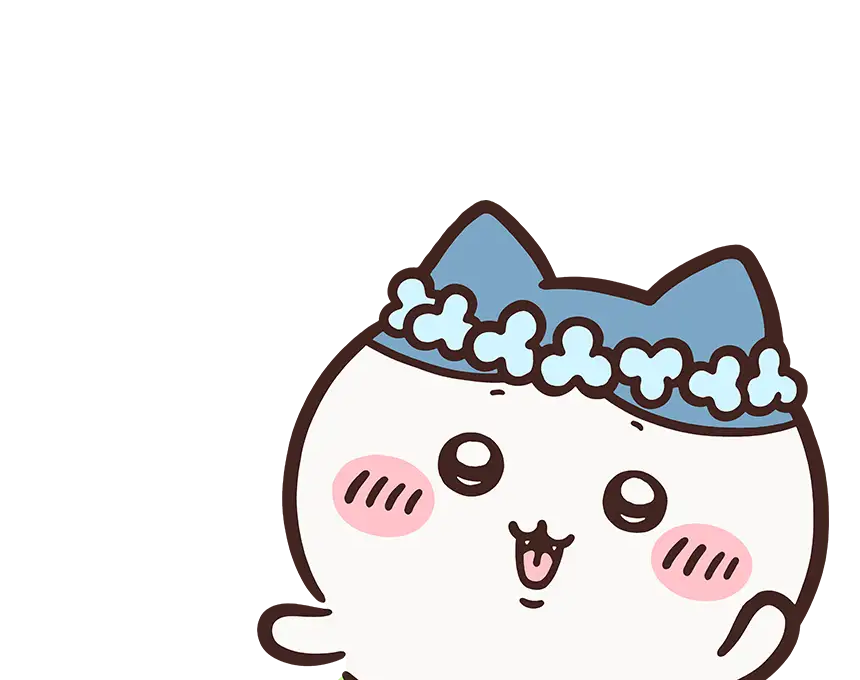
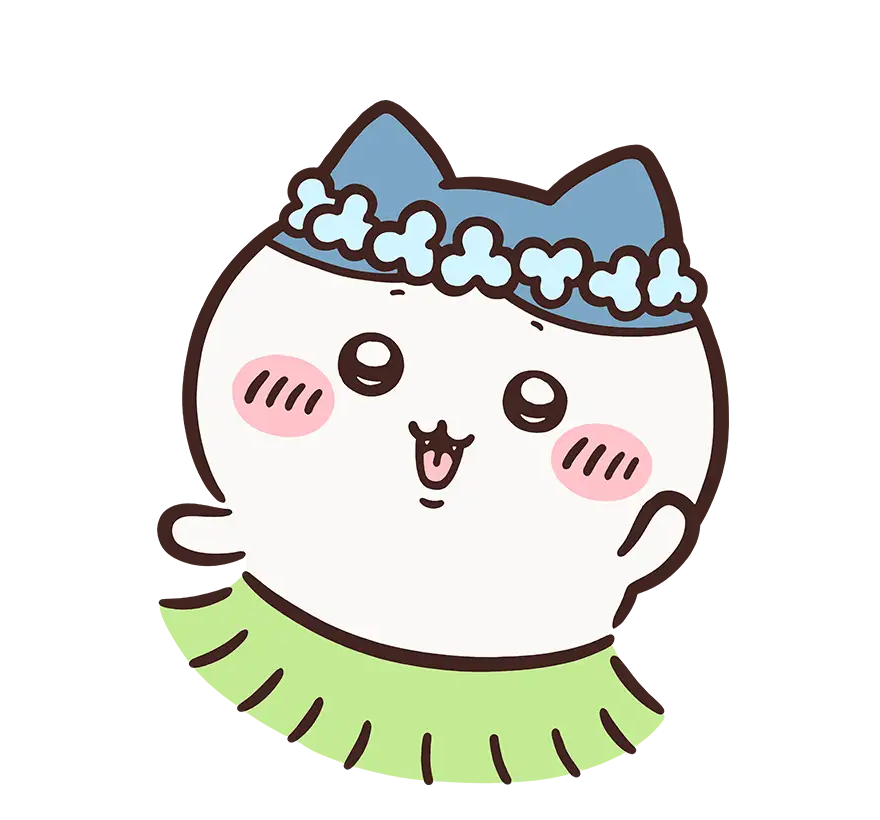
fix : 캐릭터 일러스트 잘림 수정, 캐릭터 커서 적용
- sips 의 cropOffset 이 넣은 값대로 동작하지 않아 일러스트가 잘리던 문제 해결
- 좌표를 직접 지정하는 방식으로 바꿔 11명 모두 온전히 담기도록 수정
- 캐릭터 얼굴로 만든 커서를 적용 (기본 치이카와, 링크 우사기, 지도 하치와레)
- 터치 화면에서는 커서 그림을 끔

diff --git a/src/app/globals.css b/src/app/globals.css
@@ -330,3 +330,47 @@ li { margin-bottom: 0.3em; }
 @media (prefers-reduced-motion: reduce) {
   .hero-bubble { animation: none; }
 }
+
+/* ── 커서 ─────────────────────────────────── */
+/*
+ * 캐릭터 얼굴을 커서로 쓴다. 브라우저가 커서 이미지를 못 읽는 경우가 있어
+ * 뒤에 기본값을 반드시 남긴다. 좌표는 그림 왼쪽 위 근처를 가리키게 잡는다.
+ */
+body {
+  cursor: url('/cursor/chiikawa.png') 6 4, auto;
+}
+a,
+button,
+label,
+summary,
+[role='button'],
+.chip,
+.card,
+.tile,
+.row {
+  cursor: url('/cursor/usagi.png') 6 4, pointer;
+}
+input,
+select,
+textarea {
+  cursor: auto;
+}
+.leaflet-container {
+  cursor: url('/cursor/hachiware.png') 6 4, grab;
+}
+.leaflet-container:active {
+  cursor: url('/cursor/hachiware.png') 6 4, grabbing;
+}
+/* 손가락으로 쓰는 화면에서는 커서 그림이 의미가 없다. */
+@media (hover: none) {
+  body,
+  a,
+  button,
+  .chip,
+  .card,
+  .tile,
+  .row,
+  .leaflet-container {
+    cursor: auto;
+  }
+}

diff --git a/scripts/cursor.py b/scripts/cursor.py
@@ -1,0 +1,50 @@
+#!/usr/bin/env python3
+"""
+캐릭터 얼굴로 마우스 커서 이미지를 만든다.
+
+원본은 배경이 단색이라 그 색을 투명으로 바꾸고, 캐릭터가 꽉 차도록 여백을 잘라 낸다.
+브라우저 커서는 32px 안팎이 가장 또렷해 두 배 크기까지만 만든다.
+"""
+
+from pathlib import Path
+
+from PIL import Image
+
+SOURCE = Path("public/images/characters")
+OUT = Path("public/cursor")
+SIZE = 40
+# 배경색과 이 정도까지 차이나면 배경으로 본다. 그림의 흰색은 테두리가 있어 살아남는다.
+BACKGROUND_TOLERANCE = 18
+
+
+def to_cursor(slug: str) -> None:
+    image = Image.open(SOURCE / f"movie-{slug}.png").convert("RGBA")
+    pixels = image.load()
+    background = pixels[2, 2][:3]
+
+    for y in range(image.height):
+        for x in range(image.width):
+            r, g, b, a = pixels[x, y]
+            near = abs(r - background[0]) + abs(g - background[1]) + abs(b - background[2])
+            if near <= BACKGROUND_TOLERANCE:
+                pixels[x, y] = (r, g, b, 0)
+
+    trimmed = image.crop(image.getbbox())
+    # 정사각형 안에 넣어야 커서 좌표가 어긋나지 않는다.
+    side = max(trimmed.width, trimmed.height)
+    square = Image.new("RGBA", (side, side), (0, 0, 0, 0))
+    square.paste(trimmed, ((side - trimmed.width) // 2, (side - trimmed.height) // 2))
+
+    for scale, suffix in ((1, ""), (2, "@2x")):
+        square.resize((SIZE * scale, SIZE * scale), Image.LANCZOS).save(OUT / f"{slug}{suffix}.png")
+    print(f"{slug} {trimmed.width}x{trimmed.height} → {SIZE}px, {SIZE * 2}px")
+
+
+def main() -> None:
+    OUT.mkdir(parents=True, exist_ok=True)
+    for slug in ("chiikawa", "hachiware", "usagi"):
+        to_cursor(slug)
+
+
+if __name__ == "__main__":
+    main()

diff --git a/scripts/movie-art.py b/scripts/movie-art.py
@@ -1,0 +1,54 @@
+#!/usr/bin/env python3
+"""
+극장판 공식 사이트의 캐릭터 일러스트를 받아 이름표와 소개 글을 잘라낸다.
+
+원본은 1080x1420 이고 위쪽에 그림, 아래쪽에 이름표와 설명이 있다.
+sips 의 cropOffset 은 값이 그대로 반영되지 않아 쓰지 않는다. 좌표를 직접 지정한다.
+"""
+
+import urllib.request
+from pathlib import Path
+
+from PIL import Image
+
+BASE = "https://chiikawa.toho-movie.jp/atm/img"
+OUT = Path("public/images/characters")
+UA = "Mozilla/5.0 (Macintosh; Intel Mac OS X 10_15_7) AppleWebKit/537.36 Chrome/124 Safari/537.36"
+
+# slug: 원본 파일명
+CHARACTERS = {
+    "chiikawa": "chii",
+    "hachiware": "hachi",
+    "usagi": "usagi",
+    "momonga": "momo",
+    "kurimanju": "kuri",
+    "rakko": "rakko",
+    "shisa": "shisa",
+    "furuhonya": "furuhon",
+    "seiren": "siren",
+    "ningyo": "mermaid",
+    "shimajiro": "shima",
+}
+
+# 눈금을 올려 재 보니 그림은 y 0~820 안에 들어간다. 이름표는 850 부터 시작한다.
+CROP = (100, 0, 980, 820)
+
+
+def fetch(name: str) -> Image.Image:
+    request = urllib.request.Request(f"{BASE}/ch_{name}.webp", headers={"User-Agent": UA})
+    with urllib.request.urlopen(request, timeout=30) as response:
+        return Image.open(response).convert("RGBA")
+
+
+def main() -> None:
+    OUT.mkdir(parents=True, exist_ok=True)
+    for slug, name in CHARACTERS.items():
+        image = fetch(name)
+        cropped = image.crop(CROP)
+        target = OUT / f"movie-{slug}.png"
+        cropped.save(target)
+        print(f"{slug} {cropped.width}x{cropped.height} {target.stat().st_size // 1024}KB")
+
+
+if __name__ == "__main__":
+    main()

diff --git a/README.md b/README.md
@@ -29,15 +29,23 @@ pnpm scrape   # 치이카와 마켓 신상 굿즈 갱신
 | `scripts/fx.mjs` | 엔/원 환율 갱신 | |
 | `scripts/download-images.mjs` | 인물·장소 이미지를 `public/images` 로 내려받고 JSON을 로컬 경로로 교체 | |
 | `scripts/merge-characters.mjs` | 인물 데이터 두 갈래를 slug 기준으로 합침 | |
-| `scripts/movie-art.sh` | 극장판 공식 사이트의 고화질 캐릭터 일러스트를 받아 이름표를 잘라냄 | |
+| `scripts/movie-art.py` | 극장판 공식 사이트의 고화질 캐릭터 일러스트를 받아 이름표를 잘라냄 | 11명 |
+| `scripts/cursor.py` | 캐릭터 얼굴로 마우스 커서 이미지를 만듦 | 3종 |
 | `scripts/sources.md` | 확인된 기계 판독 엔드포인트 정리 | |
 
 ## 이미지
 
 애니 공식 사이트의 캐릭터 이미지는 90x145 썸네일뿐이라 확대하면 흐리다.
 극장판 공식 사이트(`chiikawa.toho-movie.jp`)에 1080x1420 일러스트가 있어 그쪽을 쓴다.
-아래쪽에 이름표와 소개 글이 붙어 있어 `scripts/movie-art.sh` 가 `sips` 로 그림 부분만 잘라낸다.
-`sips --cropOffset` 은 음수가 위쪽이고, 앞에 공백을 두지 않으면 옵션으로 잘못 읽힌다.
+아래쪽에 이름표와 소개 글이 붙어 있어 `scripts/movie-art.py` 가 그림 부분만 잘라낸다.
+`sips --cropOffset` 은 넣은 값이 그대로 반영되지 않아 쓰지 않는다. 좌표를 직접 지정한다.
+
+## 커서
+
+`scripts/cursor.py` 가 캐릭터 얼굴로 커서 이미지를 만든다. 원본 배경이 단색이라 그 색을 투명으로 바꾸고,
+여백을 잘라 정사각형에 담는다. 기본 커서는 치이카와, 누를 수 있는 곳은 우사기, 지도는 하치와레다.
+브라우저가 커서 이미지를 못 읽을 때를 대비해 CSS 에 기본값을 반드시 남긴다.
+손가락으로 쓰는 화면에서는 커서 그림이 의미가 없어 끈다.
 
 인물과 장소 이미지는 `pnpm images` 로 파일을 내려받아 `public/images` 에 두고 로컬 경로로 참조합니다.
 핫링크는 차단이나 CDN 만료로 조용히 깨지기 때문입니다. 굿즈는 2천 건이라 Shopify CDN을 그대로 씁니다.
